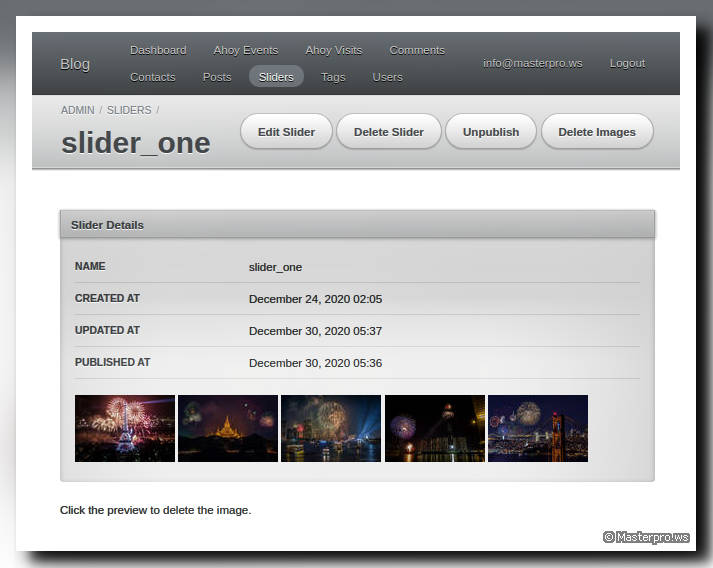
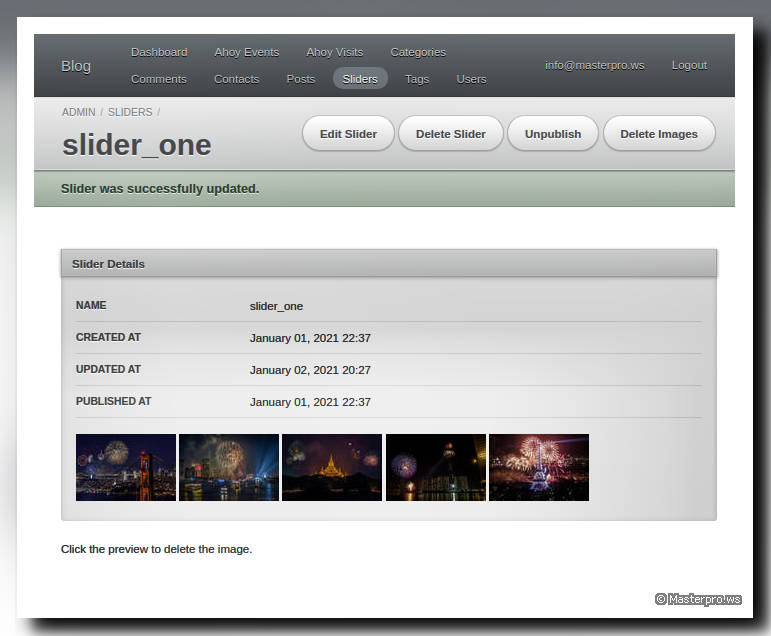
code improvement

diff --git a/app/helpers/application_helper.rb b/app/helpers/application_helper.rb
@@ -52,4 +52,8 @@ module ApplicationHelper
   def categories?
     current_page?(controller: 'categories', action: 'show')
   end
+
+  def variant(i)
+    image_tag i.images.first.variant(combine_options: { resize_to_fill: [400, 300], kuwahara: '3%' })
+  end
 end
